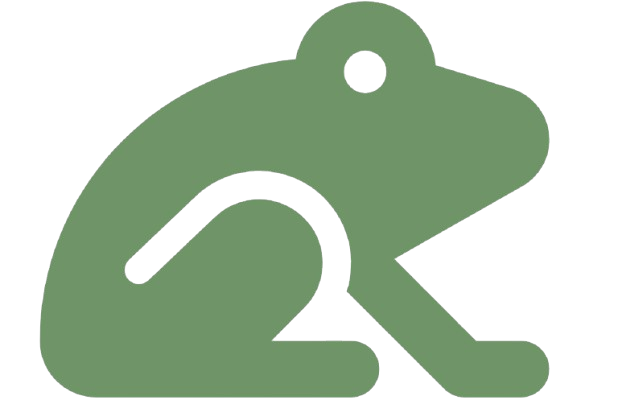
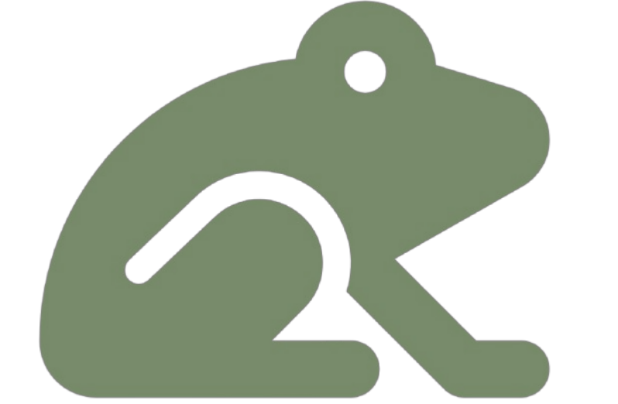
tentativa de deixar bonito

diff --git a/saibamais.html b/saibamais.html
@@ -39,7 +39,7 @@ Com essa iniciativa, esperamos contribuir de forma significativa para a preserva
     </div>
     <div class="intagram-box">
         <a href="https://www.instagram.com/sapospucpr/" target="_blank" class="instagram-link">
-            <svg xmlns="http://www.w3.org/2000/svg" width="20" height="20" fill="rgb(27, 94, 47)" viewBox="0 0 16 16">
+            <svg xmlns="http://www.w3.org/2000/svg" width="20" height="20" fill=" rgb(151, 183, 160)" viewBox="0 0 16 16">
                 <path d="M8 0C5.829 0 5.556.01 4.703.048 3.85.088 3.269.222 2.76.42a3.9 3.9 0 0 0-1.417.923A3.9 3.9 0 0 0 .42 2.76C.222 3.268.087 3.85.048 4.7.01 5.555 0 5.827 0 8.001c0 2.172.01 2.444.048 3.297.04.852.174 1.433.372 1.942.205.526.478.972.923 1.417.444.445.89.719 1.416.923.51.198 1.09.333 1.942.372C5.555 15.99 5.827 16 8 16s2.444-.01 3.298-.048c.851-.04 1.434-.174 1.943-.372a3.9 3.9 0 0 0 1.416-.923c.445-.445.718-.891.923-1.417.197-.509.332-1.09.372-1.942C15.99 10.445 16 10.173 16 8s-.01-2.445-.048-3.299c-.04-.851-.175-1.433-.372-1.941a3.9 3.9 0 0 0-.923-1.417A3.9 3.9 0 0 0 13.24.42c-.51-.198-1.092-.333-1.943-.372C10.443.01 10.172 0 7.998 0zm-.717 1.442h.718c2.136 0 2.389.007 3.232.046.78.035 1.204.166 1.486.275.373.145.64.319.92.599s.453.546.598.92c.11.281.24.705.275 1.485.039.843.047 1.096.047 3.231s-.008 2.389-.047 3.232c-.035.78-.166 1.203-.275 1.485a2.5 2.5 0 0 1-.599.919c-.28.28-.546.453-.92.598-.28.11-.704.24-1.485.276-.843.038-1.096.047-3.232.047s-2.39-.009-3.233-.047c-.78-.036-1.203-.166-1.485-.276a2.5 2.5 0 0 1-.92-.598 2.5 2.5 0 0 1-.6-.92c-.109-.281-.24-.705-.275-1.485-.038-.843-.046-1.096-.046-3.233s.008-2.388.046-3.231c.036-.78.166-1.204.276-1.486.145-.373.319-.64.599-.92s.546-.453.92-.598c.282-.11.705-.24 1.485-.276.738-.034 1.024-.044 2.515-.045zm4.988 1.328a.96.96 0 1 0 0 1.92.96.96 0 0 0 0-1.92m-4.27 1.122a4.109 4.109 0 1 0 0 8.217 4.109 4.109 0 0 0 0-8.217m0 1.441a2.667 2.667 0 1 1 0 5.334 2.667 2.667 0 0 1 0-5.334"/>
             </svg>
             <span class="instagram-text">@sapospucpr</span> 

diff --git a/styles.css b/styles.css
@@ -8,7 +8,12 @@
 }
 
 body {
-    background-image: url("./img/fundo.jpg");
+    background-image: url("./img/fundo.jpg"); 
+    background-repeat: no-repeat; /* Prevent the image from repeating */
+    background-size: cover;       /* Scale the image to cover the entire body */
+    background-position: center center; /* Center the image */
+    background-attachment: fixed; /* Make the background fixed during scroll */
+    min-height: 100vh; /* Ensure body takes at least full viewport height */
     font-size: 16px;
     line-height: 1.6;
     overflow-x: hidden;
@@ -32,7 +37,7 @@ body {
 
 .subtitle {
     font-family: "Orbitron", sans-serif;
-    color: rgb(38, 70, 28);
+    color: rgb(163, 181, 153);
     margin-left: 30px;
     margin-bottom: 20px;
 }
@@ -43,15 +48,15 @@ body {
     width: 100%;
     font-size: 1rem;
     line-height: 1.8;
-    color: rgb(22, 77, 38);
+    color: rgb(175, 193, 165);
     margin-bottom: 20px;
 }
 
 .text-box{
     width: 55%; 
     padding: 20px; 
-    background-image: url("./img/fundotext.jpg");
-    border-radius: 20px;
+    background-color: rgba(19, 34, 21, 0.484);
+    border-radius: 10px;
     box-shadow: rgba(5, 40, 4, 0.15) 0px 15px 25px, rgba(10, 47, 18, 0.05) 0px 5px 10px;
 }
 
@@ -64,12 +69,12 @@ body {
 }
 
 .intagram-box {
-    color: rgb(27, 94, 47);
+    color: rgb(151, 183, 160);
     margin: 5px auto; /* Added top/bottom margin for spacing, auto for horizontal centering */
     font-size: 20px;
     width: fit-content; /* Adjusts width to content, good for centering the box itself */
     padding: 15px 20px; /* Adjusted padding */
-    background-color: rgb(213, 228, 206);
+    background-color:rgba(19, 34, 21, 0.484);
     border-radius: 20px;
     box-shadow: rgba(5, 40, 4, 0.15) 0px 15px 25px, rgba(10, 47, 18, 0.05) 0px 5px 10px;
     display: flex; /* Make the box itself a flex container to center the 'a' tag */

diff --git a/header.css b/header.css
@@ -2,11 +2,11 @@
     font-family: "Orbitron", sans-serif;
     font-size: 2rem;
     font-weight: 900;
-    color: rgb(101, 133, 91);
+    color: rgb(114, 134, 108);
     cursor: pointer;
 }
 .nome:hover {
-    color: rgb(100, 128, 91);
+    color: rgb(100, 118, 94);
     transition: color 0.3s ease-in-out;
 }
 
@@ -16,8 +16,8 @@ header{
     top: 0;
     width: 100vw;
     height: 70px;
-    background-image: url("./img/fundotext.jpg");
-    color: #fff;
+    background-color: rgb(46, 60, 40);
+    /*background-image: url("./img/fundotext.jpg");*/
     padding: 20px 50px;
     display: flex; 
     align-items: center;
@@ -38,7 +38,8 @@ header nav ul li {
     cursor: pointer;
     position: relative;
     padding: 5px 0px;
-    color: rgb(100, 128, 91);
+    color: rgb(100, 118, 94);
+    font-size: 110%;
 }
 
 header nav ul li::after {
@@ -48,13 +49,13 @@ header nav ul li::after {
     height: 4px;
     bottom: 0;
     left: 0;
-    background-color: rgb(141, 174, 134);
+    background-color: rgb(100, 118, 94);
     border-radius: 20px;
     transition: width 0.3s ease-in-out;
 }
 
 header nav ul li:hover::after {
-    width: 101%;
+    width: 105%;
 }
 
 a {
@@ -66,7 +67,7 @@ a {
     bottom: 0;
     width: 100%;
     height: 50px;
-    background-color: rgb(170, 194, 164);
+    background-color: rgba(109, 130, 104, 0.462);
     color: #fff;
     display: flex; 
     align-items: center;

diff --git a/stylesMapa.css b/stylesMapa.css
@@ -7,7 +7,7 @@ body {
     display: flex;
     flex-direction: column;
     height: 100vh;
-    background-color: #bad0b4;
+    background-color: rgb(65, 84, 57);
 }
 
 #container-mapa {
@@ -25,16 +25,24 @@ body {
 }
 
 #caixa-info {
-    background-color: rgb(213, 228, 206);
+    background-color: rgb(154, 177, 143);
     padding: 15px;
     margin: 10px;
     border-radius: 8px;
     box-shadow: 0 2px 4px rgba(0,0,0,0.1);
     text-align: center;
-    display:none;
     overflow-y: auto;
     max-height: 250px; 
-    position: relative; 
+    position: relative;
+    display:none
+}
+
+#infoClose {
+    position: sticky;
+    top: 10px;
+    right: 10px;
+    cursor: pointer;
+    text-align: right;
 }
 
 .info-sapo{
@@ -49,7 +57,7 @@ body {
     left: 20px;
     z-index: 8; /* Deixa ele na frente de tudo B) */
     padding: 10px 15px;
-    background-color: rgb(83, 150, 73); /* Green */
+    background-color: rgb(110, 131, 107); /* Green */
     color: white;
     border: none;
     border-radius: 5px;
@@ -117,13 +125,6 @@ body {
     border-radius: 4px;
     margin-top: 5px;
     margin-bottom: 10px;
-}
-#infoClose {
-    position: sticky;
-    top: 10px;
-    right: 10px;
-    cursor: pointer;
-    text-align: right;
 }
 
 

diff --git a/catalogo.html b/catalogo.html
@@ -29,9 +29,10 @@
     </header>
     <div class="container">
         <div class="content">
+            <div class="text-box">
             <h1 class="subtitle">Catálogo de Sapos</h1>
-
-            <p>Aqui você pode explorar nosso catálogo de sapos, rãs e pererecas ameaçados de extinção.</p>
+            <p class="text">Este catálogo apresenta uma seleção de sapos, rãs e pererecas ameaçados de extinção, destacando a importância de cada espécie para o ecossistema e os desafios que enfrentam. Através deste catálogo, buscamos aumentar a conscientização sobre a necessidade urgente de proteger esses anfíbios e seus habitats.</p>
+            </div>
         </div>
     </div>
 

diff --git a/index.html b/index.html
@@ -29,7 +29,7 @@
     </header>
     <div class="container">
         <div class="content">
-            <img src="./img/ra_dardo_venenoso_azul.jpg" alt="sapo">
+            <img src="./img/frog.JPG" alt="sapo">
             <div class="text-box">
                 <h1 class="subtitle">Classe Anura: Sentinelas do Planeta Terra</h1>
                 <p class="text">

diff --git a/Mapa.html b/Mapa.html
@@ -47,7 +47,7 @@
 
     <button id="btn-voltar" style="display: none;">Voltar</button>
 
-    <script src="Mapa.js"></script>
+    <script src="mapa.js"></script>
     <script src="./index.js"></script>
 </body>
 </html>

diff --git a/index.js b/index.js
@@ -23,3 +23,5 @@ recursosButton.addEventListener('click', () => {
 mapaButton.addEventListener('click', () => {
     window.location.href = 'mapa.html';
 });
+
+
